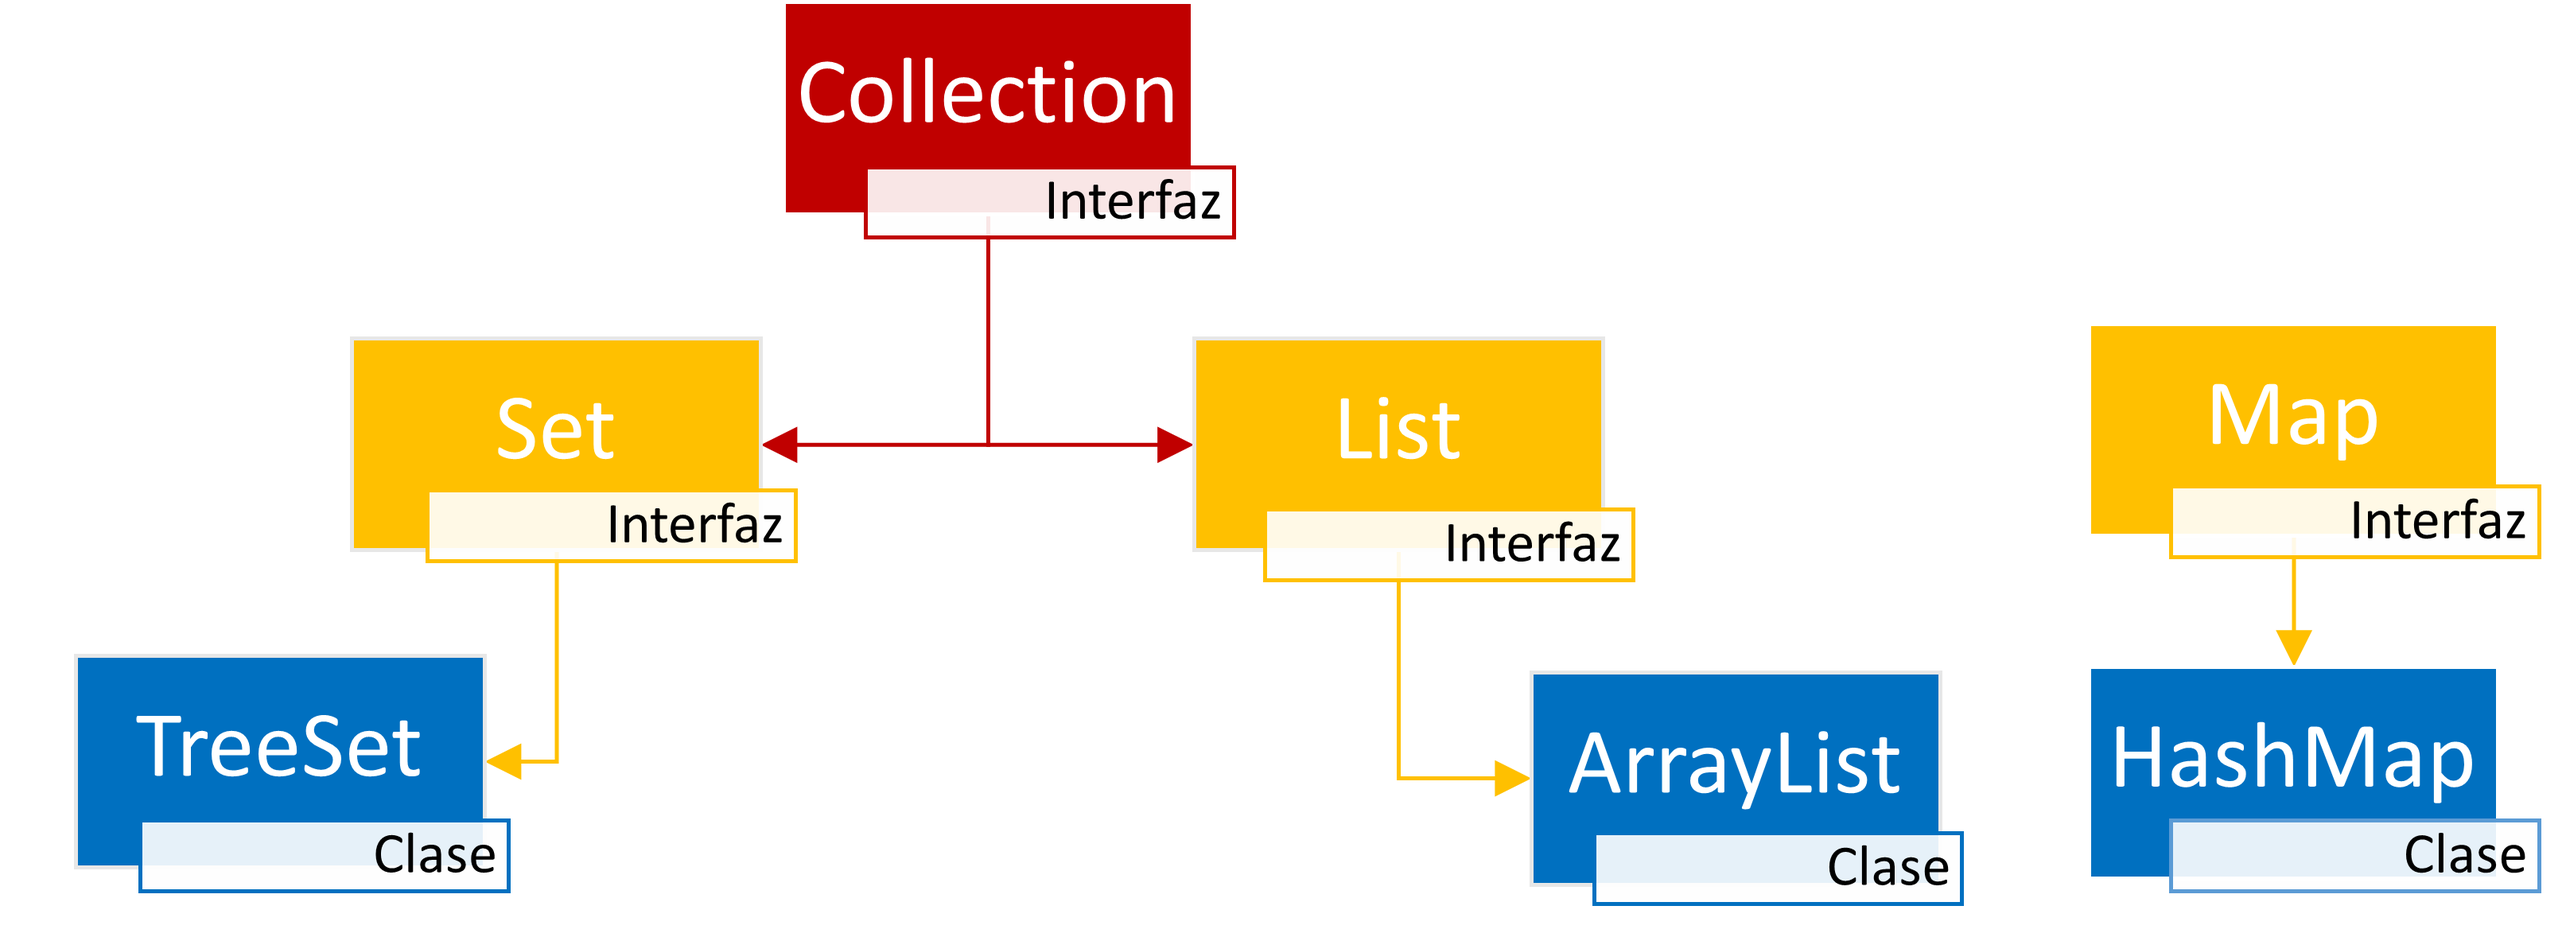
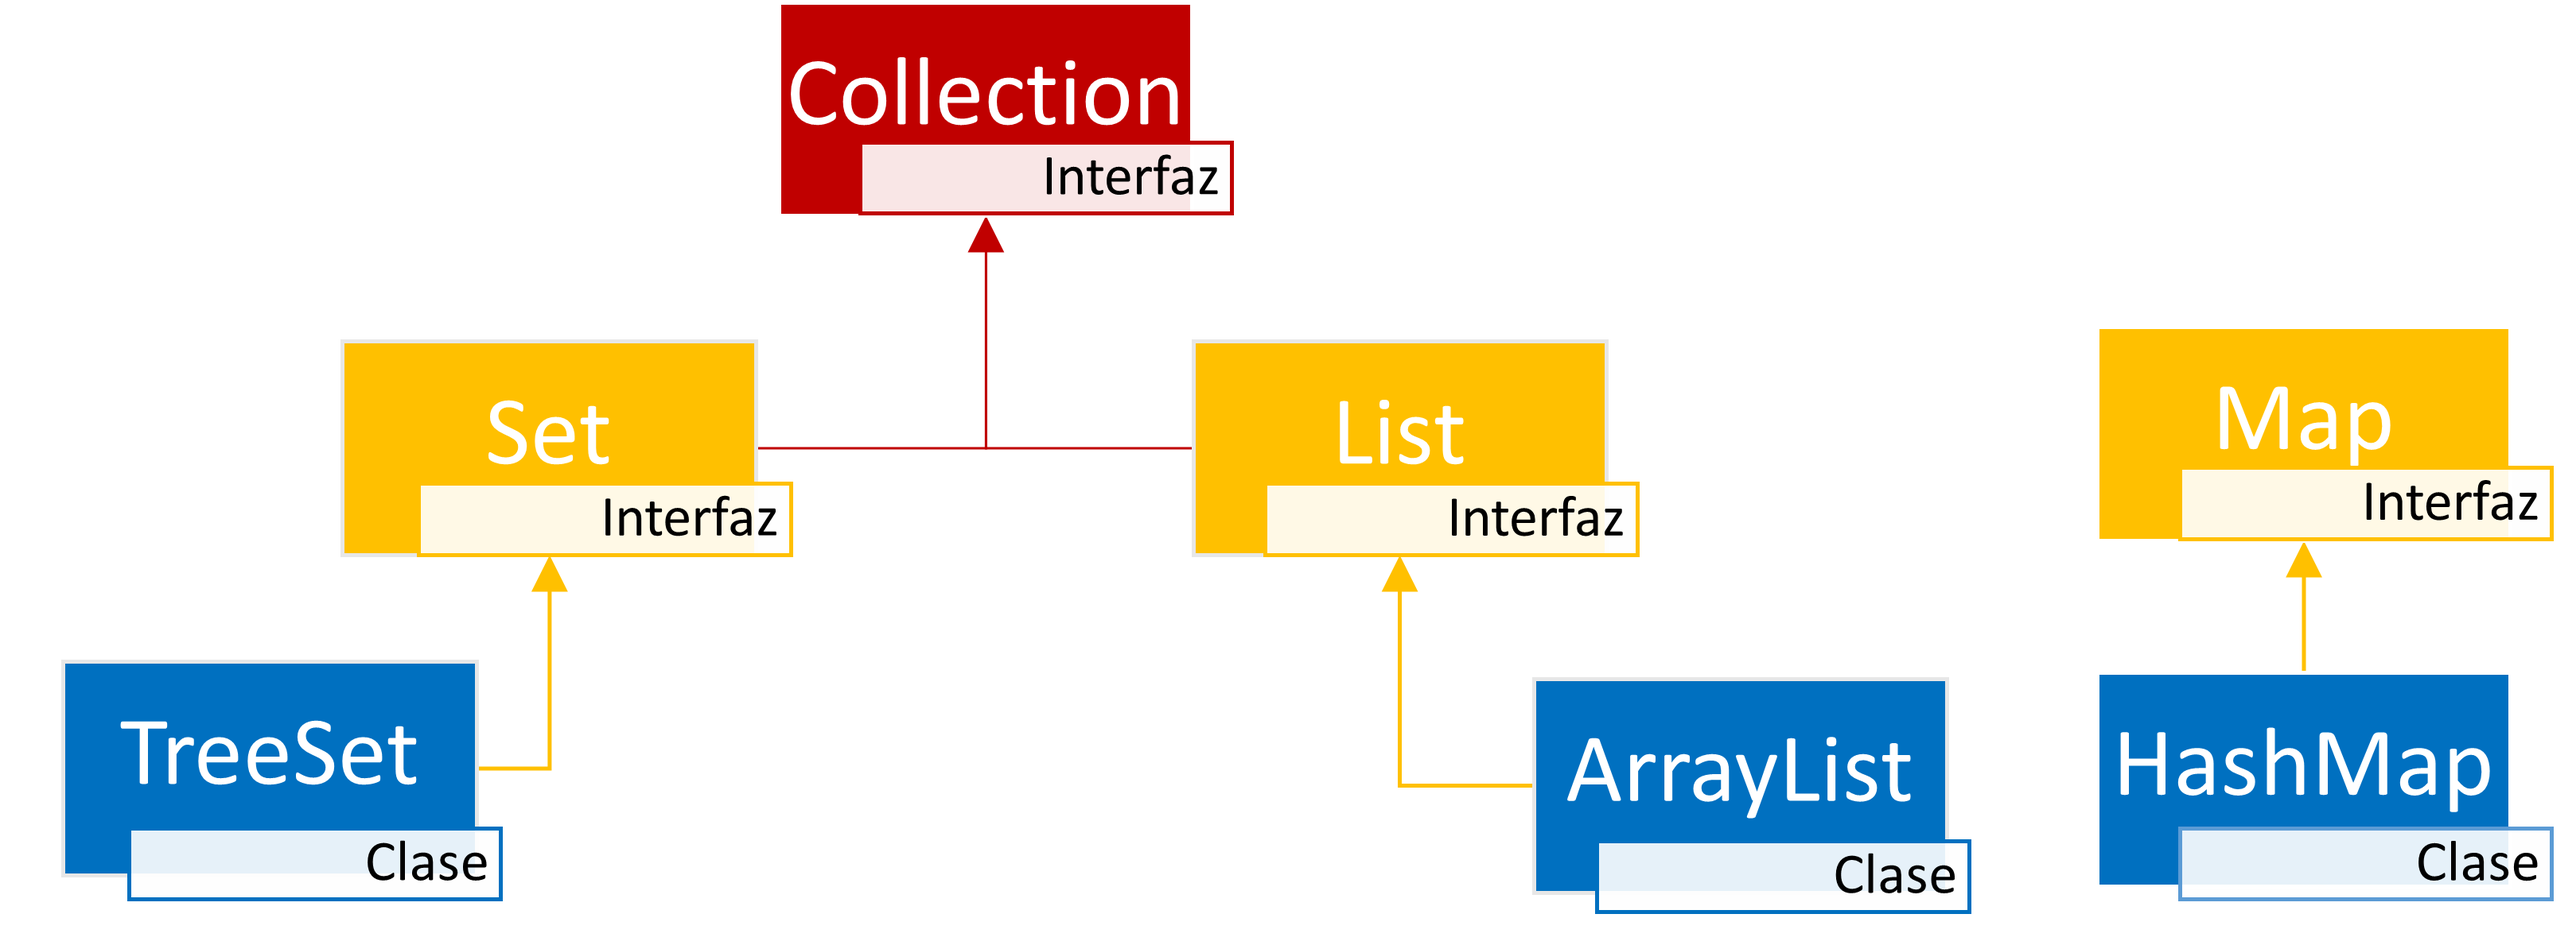
Fix: Arreglo de la imagen (flechas) y algún error

diff --git a/docs/md/04-Colecciones.md b/docs/md/04-Colecciones.md
@@ -45,11 +45,11 @@ Todas las colecciones poseen unas operaciones básicas comunes. Después cada co
 - Borrar un objeto de la colección. Se realiza con el método <kbd>remove</kbd>. 
 - Obtener el tamaño de la colección. Se realiza con el método <kbd>size</kbd>.
 - Comprobar si un objeto se encuentra en la colección. Se realiza con el método <kbd>contains</kbd>.
-- Comprobar su una colección está vacía. Se realiza con el método <kbd>isEmpty</kbd>.
+- Comprobar si una colección está vacía. Se realiza con el método <kbd>isEmpty</kbd>.
 - Obtener un elemento de la colección. Se realiza con el método <kbd>get</kbd>.
 - Eliminar todos los elementos de la colección. Se realiza con el método <kbd>clear</kbd>.
 
-Cada colección sobrescribirá sus propios métodos, adaptándolos a sus necesidades, pudiendo existir diferencias entre una colección y otra, por lo que siempre consultaremos la documentación de los mismos, para comprobar que hace cada método, sus valores devueltos, posibles excepciones lanzadas, etc.
+Cada colección sobrescribirá sus propios métodos, adaptándolos a sus necesidades, pudiendo existir diferencias entre una colección y otra, **por lo que siempre consultaremos la documentación de los mismos,** para comprobar que hace cada método, sus valores devueltos, posibles excepciones lanzadas, etc.
 
 ## Bucle FOR EACH
 
@@ -118,7 +118,7 @@ Cada vez que insertamos un elemento con `add(objeto)`, este se posiciona al fina
 Para acceder a los elementos de la lista, usaremos el método <kbd>get</kbd>, el cual recibe un entero que representa el índice (posición) del elemento dentro del ArrayList. Sus índices empiezan en 0, igual que los arrays.
 
 ```java
-System.out.println(lista.get(2)); // Clint
+System.out.println(lista.get(2)); // Thanos
 ```
 
 Para borrar los elementos, podemos hacerlo de dos formas, gracias a la sobrecarga del método `remove()`
@@ -127,12 +127,12 @@ Para borrar los elementos, podemos hacerlo de dos formas, gracias a la sobrecarg
 // Borramos por índice
 lista.remove(2); // Borraría a Thanos
 // Borramos por objeto
-lista.remove("Natasha"); // Borraría a Natasha. Da igual en que posición estuviese
+lista.remove("Natasha"); // Borraría a la primera "Natasha". Da igual en que posición estuviese
 // Borramos todo
 lista.clear(); // Borra a todos los elementos
 ```
 
-La colección List, posee todos los métodos comunes que hemos descrito con anterioridad, como `contains`, `isEmpty`, `clear`, `remove`, etc. Lo mejor siempre para comprobar los métodos de una colección será crear el objeto y escribir su nombre  y un punto para que el IDE nos muestre la lista de todos los métodos disponibles, así como la documentación de como usarlos.
+La colección List, posee todos los métodos comunes que hemos descrito con anterioridad, como `contains`, `isEmpty`, `clear`, `remove`, etc. Lo mejor siempre para comprobar los métodos de una colección será crear el objeto y escribir su nombre y un punto para que el IDE nos muestre la lista de todos los métodos disponibles, así como la documentación de como usarlos.
 
 
 
@@ -222,19 +222,19 @@ public class Persona implements Comparable<Persona> {
     ...
     @Override
     public int compareTo(Persona otraPersona) {
-        return this.edad - otraPersona.edad;
+        return this.edad - otraPersona.getEdad();
     }
 }
 
 ```
 
-Al restar las edades, ya tenemos justo los valores que queremos. 
+Al restar las edades, ya tenemos justo los valores que queremos.
 
-- Si ESTA clase es menor que la recibida por parámetros, nos dará un número negativo (da igual cual). 
-- Si ESTA clase es mayor que la recibida por parámetros, dará un número positivo. 
-- Y si tienen las mismas edades, el resultado será 0. 
+- Si ESTA clase es menor que la recibida por parámetros, nos dará un número negativo (da igual cual).
+- Si ESTA clase es mayor que la recibida por parámetros, dará un número positivo.
+- Y si tienen las mismas edades, el resultado será 0.
 
-De esta forma, el TreeSet podrá comparar los objetos entre si y saber el orden (que hemos decidido nosotros) para insertar los elementos en unas posiciones u otras, o bien no insertarlos porque son iguales. 
+De esta forma, el TreeSet podrá comparar los objetos entre si y saber el orden (que hemos decidido nosotros) para insertar los elementos en unas posiciones u otras, o bien no insertarlos porque son iguales.
 
 > ⚠ `TreeSet` para comprobar la igualdad de dos objetos no usa el `.equals()` ni el `hashcode()`, si no el `compareTo()`. Por lo que hay que tener en cuenta que dos personas distintas, con distintos nombres PERO CON LA MISMA EDAD, el TreeSet entendería que son iguales, por lo que no la insertaría en la colección. 
 
